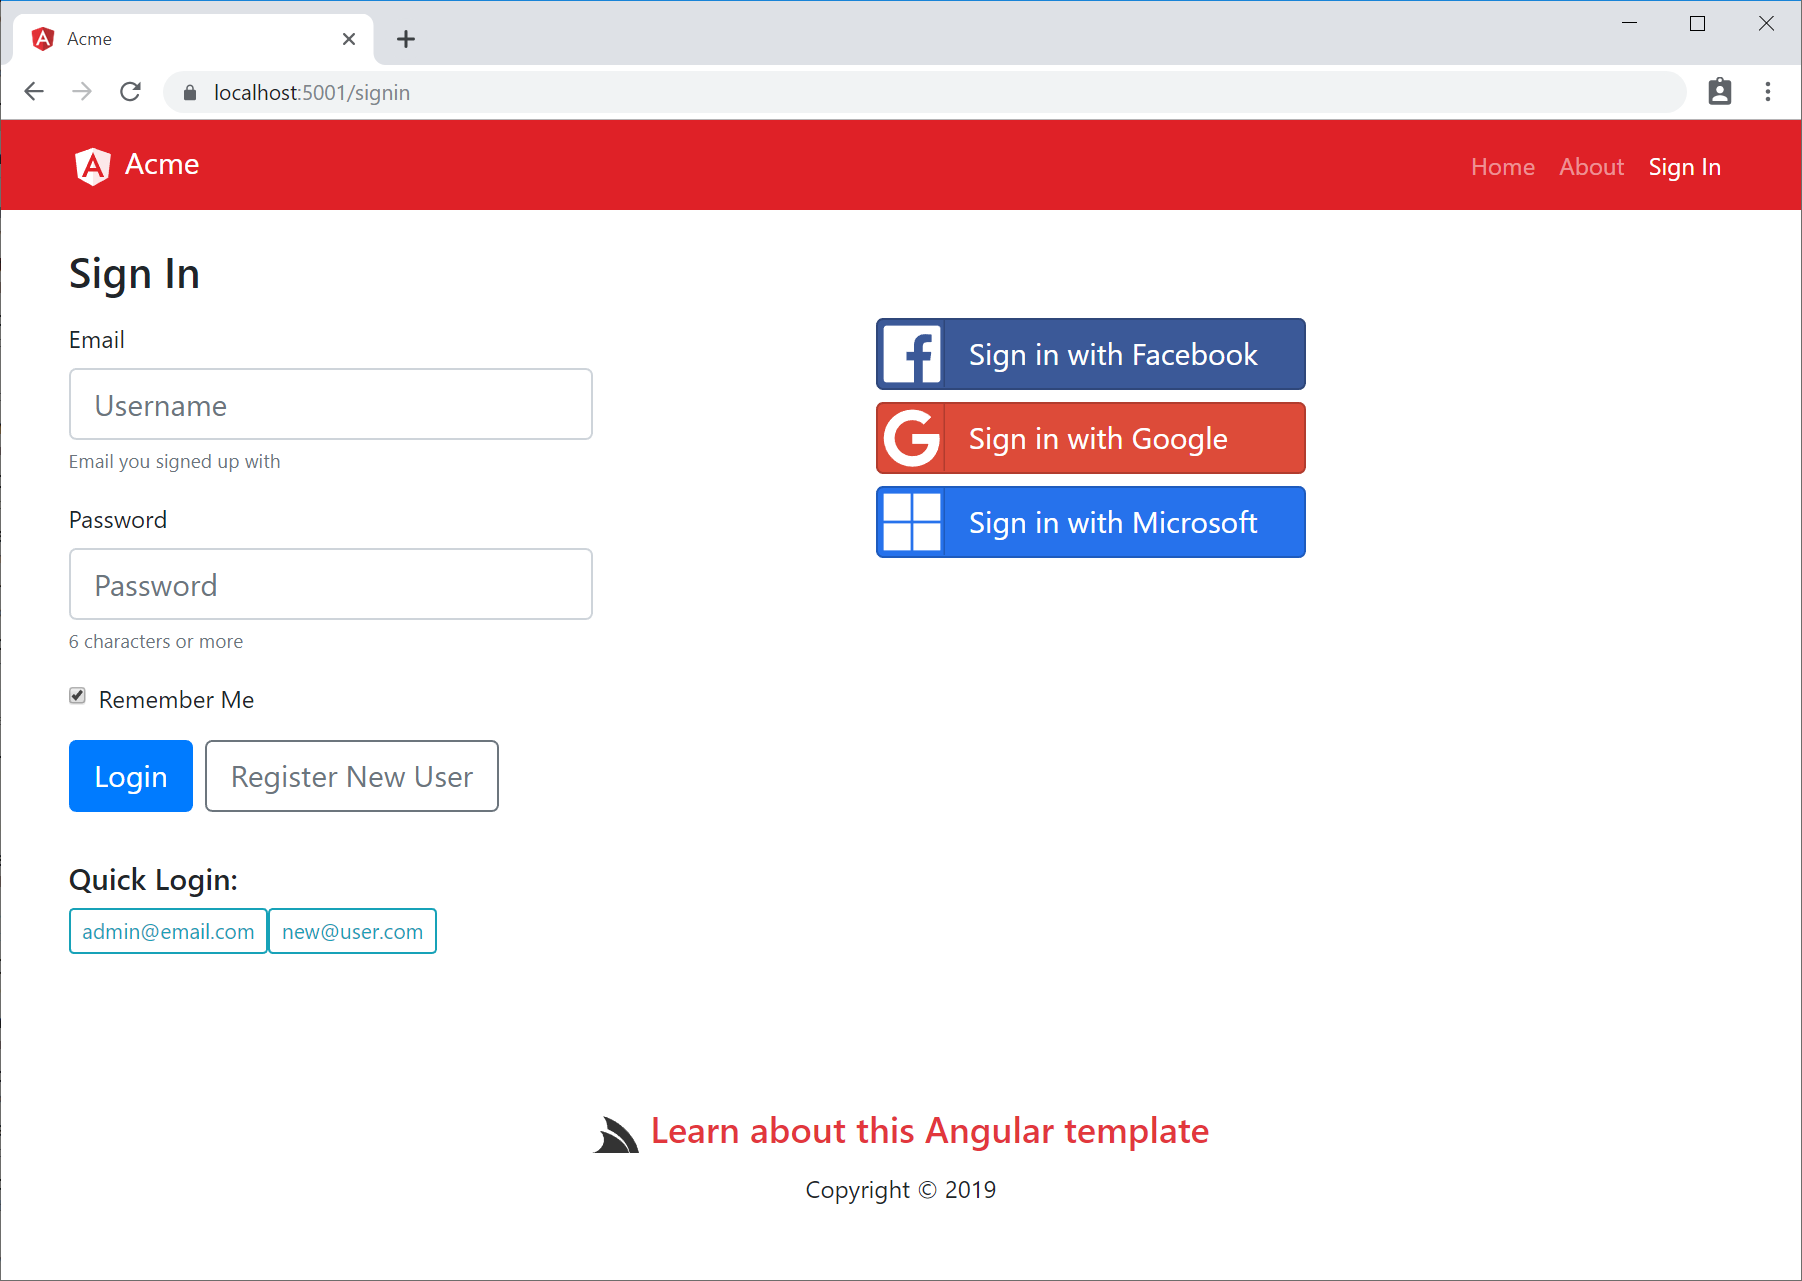
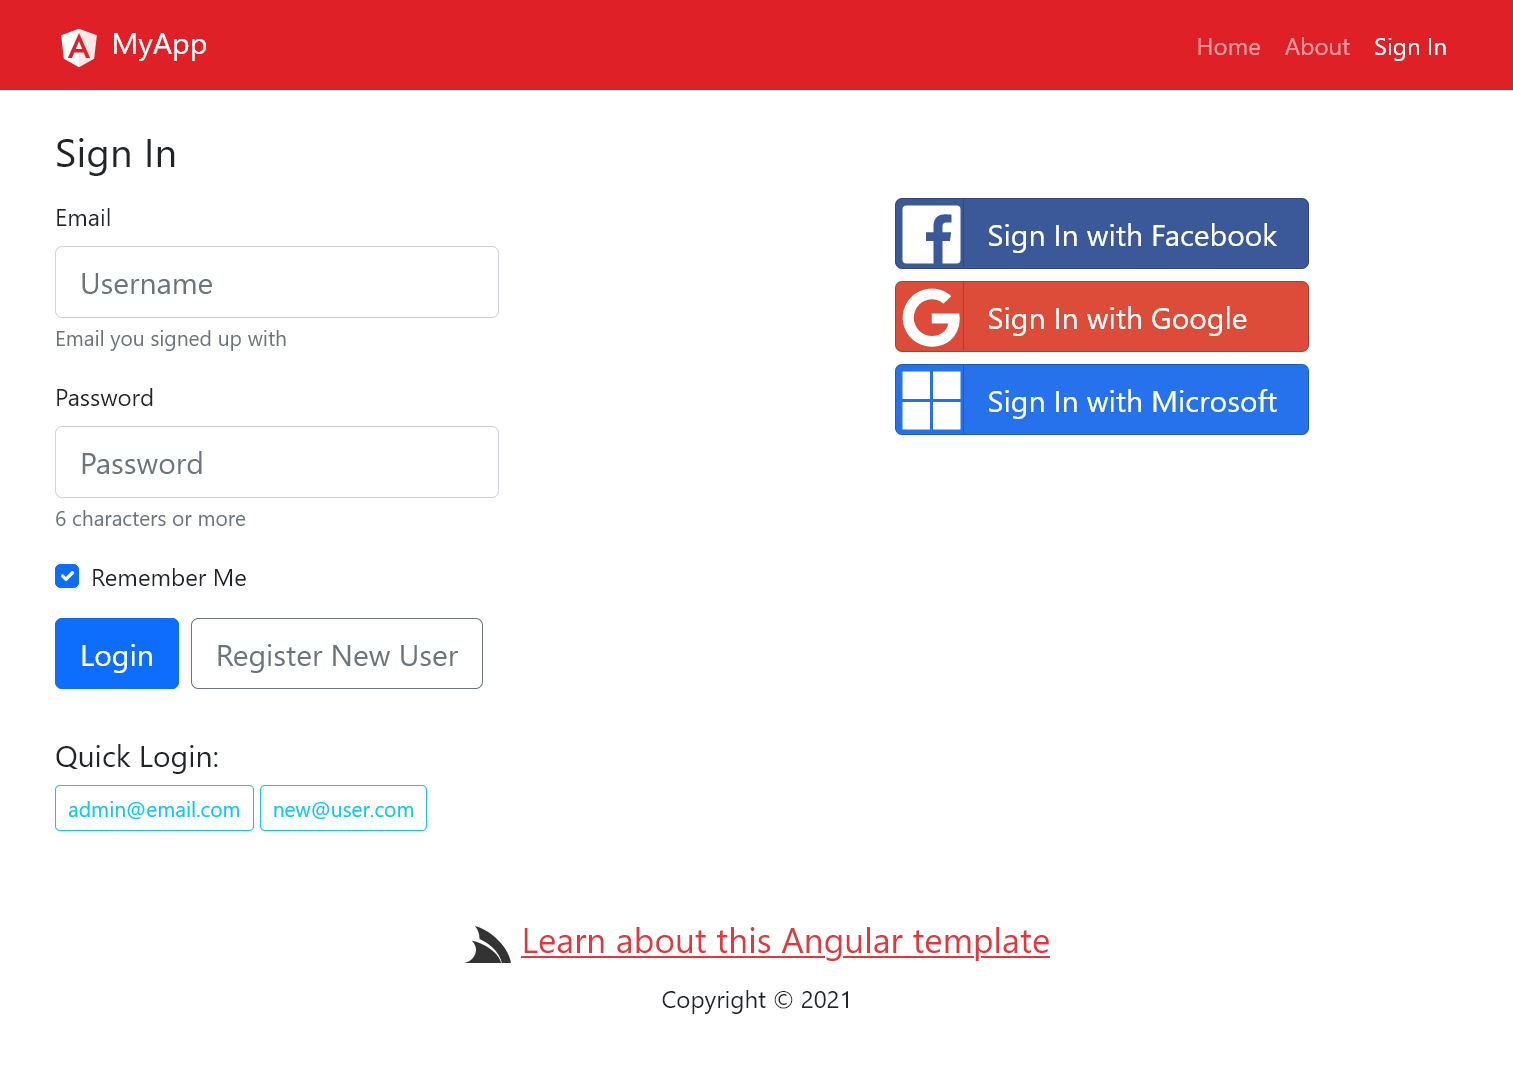
Update dotnet-new screenshot

Changed region(s): [[0.0, 0.0, 1.0, 1.0], [0.3106, 0.8422, 0.6834, 0.9358], [0.0311, 0.655, 0.2796, 0.7486]]

diff --git a/docs/_documentation/dotnet-new.md b/docs/_documentation/dotnet-new.md
@@ -44,6 +44,12 @@ For example to create a new **Vue Single Page App**, run:
 
     $ x new vue-spa ProjectName
 
+Alternatively you can write new project files directly into an empty repository using the Directory Name as the ProjectName:
+
+    $ git clone https://github.com/<User>/<ProjectName>.git
+    $ cd <ProjectName>
+    $ x new vue-spa
+
 ## Modernized Project Templates
 
 ![](https://raw.githubusercontent.com/ServiceStack/docs/master/docs/images/ssvs/spa-templates-overview.png)
@@ -66,7 +72,7 @@ protected Pages and Services and auth redirect flow to Sign In and Forbidden pag
 
 #### angular-spa
 
-> Angular 9 CLI Bootstrap App
+> Angular 12 CLI Bootstrap App
 
 ![](https://raw.githubusercontent.com/ServiceStack/docs/master/docs/images/auth/signin/angular-spa.png)
 
